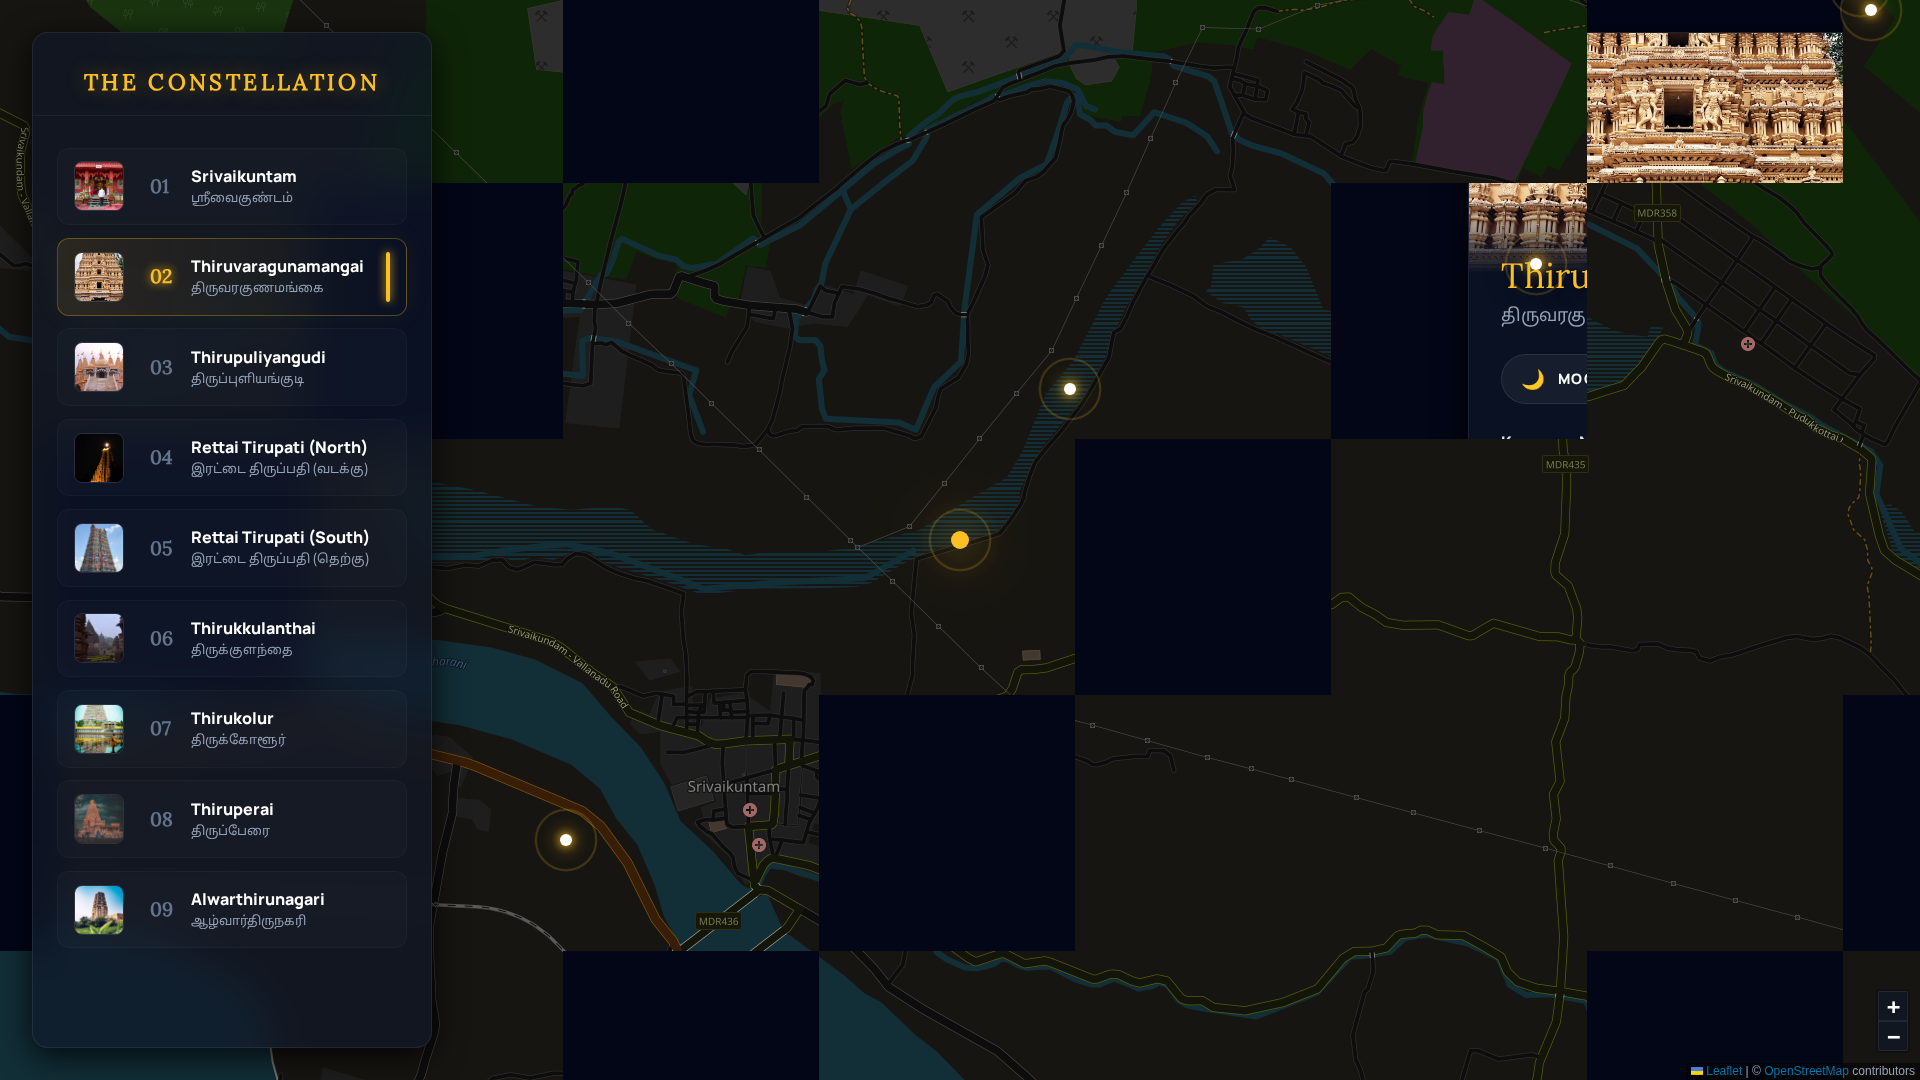
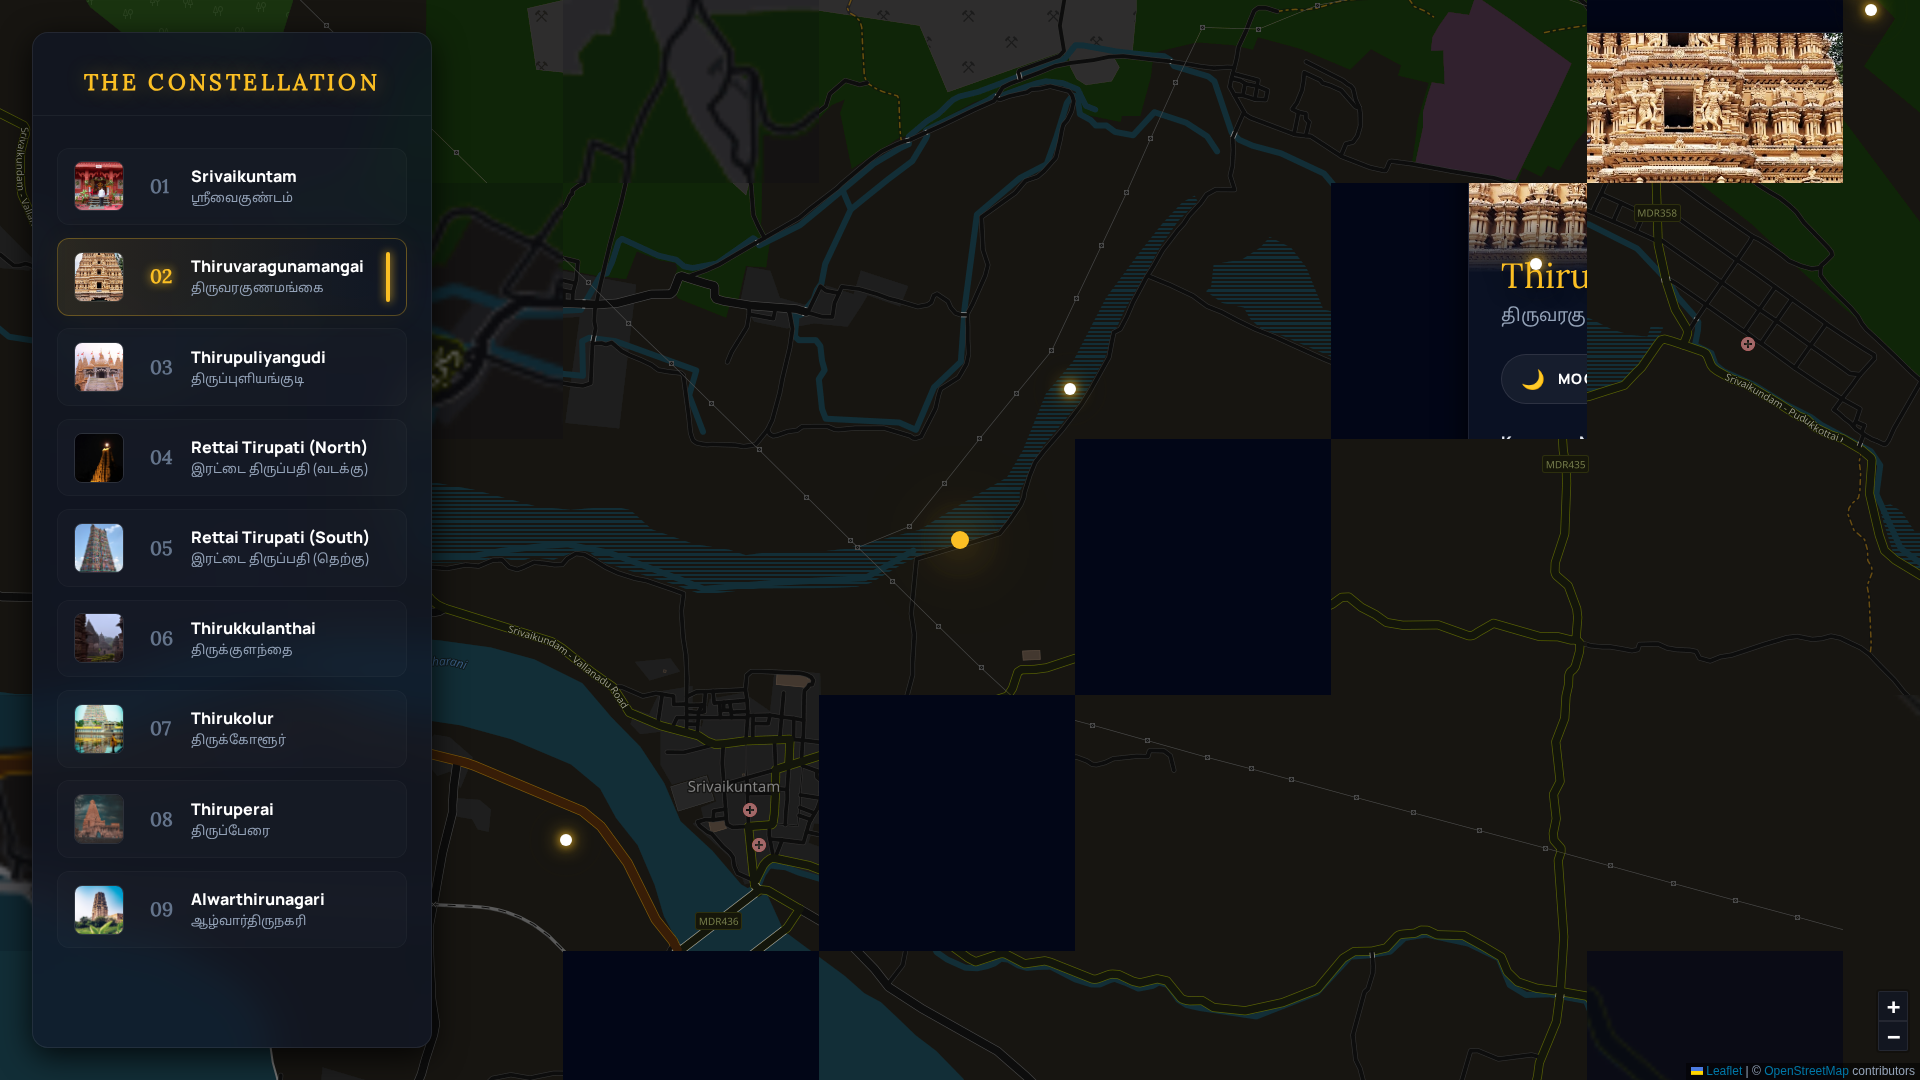
Fix: Comprehensive Bug Fixes and UX Enhancements
This commit addresses several issues identified during a comprehensive QA audit of the web application. The fixes enhance the application's robustness, user experience, and visual polish.

The following changes are included:

- Graceful Map Error Handling: Implemented an overlay to inform the user when the map tiles fail to load due to network errors. This prevents a blank map from being displayed.
- Image Loading Robustness: Added `onerror` handlers to the temple images to prevent broken image icons from appearing if an image fails to load. The entire list item is now hidden to avoid layout shifts.
- Smoother Intro Animation: Replaced a brittle `setTimeout` with a more reliable `transitionend` event listener to manage the intro screen's fade-out animation.
- Icon Visibility Fix: Corrected a minor CSS issue where a planet icon could become obscured.

diff --git a/index.html b/index.html
@@ -673,6 +673,40 @@
             .leaflet-control-zoom { display: none; }
             .leaflet-control-attribution { display: none; }
 
+            /* --- Map Error Handling --- */
+            .map-error-overlay {
+                position: absolute;
+                top: 0;
+                left: 0;
+                width: 100%;
+                height: 100%;
+                background: rgba(2, 6, 17, 0.8);
+                backdrop-filter: blur(10px);
+                -webkit-backdrop-filter: blur(10px);
+                display: flex;
+                justify-content: center;
+                align-items: center;
+                text-align: center;
+                z-index: 500;
+                opacity: 0;
+                pointer-events: none;
+                transition: opacity 0.5s ease;
+            }
+            .map-error-overlay.visible {
+                opacity: 1;
+                pointer-events: auto;
+            }
+            .map-error-content h3 {
+                font-family: var(--font-heading);
+                font-size: 1.5rem;
+                color: var(--color-primary);
+                margin-bottom: 1rem;
+            }
+            .map-error-content p {
+                font-size: 1rem;
+                color: var(--color-text-secondary);
+            }
+
             .intro-title { font-size: 2.2rem; margin: 0 1rem 1rem 1rem; }
             .intro-button { padding: 1rem 2rem; width: 80%; text-align: center; }
         }
@@ -701,6 +735,12 @@
         </nav>
         <main class="map-container">
             <div id="map"></div>
+            <div class="map-error-overlay" id="map-error-overlay">
+                <div class="map-error-content">
+                    <h3>Map Data Unattainable</h3>
+                    <p>Could not connect to the celestial cartographers. Please check your network connection.</p>
+                </div>
+            </div>
             <div class="info-card" id="info-card" aria-live="polite">
                 <button class="info-card-close-btn" id="info-card-close-btn">×</button>
                 <img src="" alt="" class="info-card-image" id="info-card-image">
@@ -726,7 +766,7 @@
             const templeData = [
                 { id: 0, name: 'Srivaikuntam', tamilName: 'ஸ்ரீவைகுண்டம்', planet: 'Sun', planetIcon: '☀', coords: [8.6292, 77.9042], image: 'https://images.unsplash.com/photo-1600238323590-42f42be29772?fm=jpg&q=60&w=800&ixlib=rb-4.1.0&ixid=M3wxMjA3fDB8MHxzZWFyY2h8MTV8fFNyaXZhaWt1bnRhbSUyMHRlbXBsZXxlbnwwfHwwfHx8MA%3D%3D', description: 'The first temple in the pilgrimage, dedicated to Lord Vishnu as Vaikunthanathan. It is associated with Surya (the Sun) and is believed to grant devotees a life free from obstacles.' },
                 { id: 1, name: 'Thiruvaragunamangai', tamilName: 'திருவரகுணமங்கை', planet: 'Moon', planetIcon: '🌙', coords: [8.6419, 77.9211], image: 'https://images.unsplash.com/photo-1565195161077-f5c5f61f9ea2?fm=jpg&q=60&w=800&ixlib=rb-4.1.0&ixid=M3wxMjA3fDB8MHxzZWFyY2h8Mnx8aGluZHUlMjB0ZW1wbGV8ZW58MHx8MHx8fDA%3D', description: 'Known as Natham, this temple is dedicated to Lord Vijayasana Perumal. It is linked to Chandra (the Moon), and worship here is said to bestow mental peace and clarity.' },
-                { id: 2, name: 'Thirupuliyangudi', tamilName: 'திருப்புளியங்குடி', planet: 'Mercury', planetIcon: '⚪', coords: [8.6483, 77.9258], image: 'https://images.unsplash.com/photo-1524443169398-9aa1ceab67d5?fm=jpg&q=60&w=800&ixlib=rb-4.1.0&ixid=M3wxMjA3fDB8MHxzZWFyY2h8NHx8aGluZHUlMjB0ZW1wbGV8ZW58MHx8MHx8fDA%3D', description: 'Worshipped as Kasinivendan Perumal, this temple is associated with Budhan (Mercury). Devotees pray here for wisdom, knowledge, and success in education and communication.' },
+                { id: 2, name: 'Thirupuliyangudi', tamilName: 'திருப்புளியங்குடி', planet: 'Mercury', planetIcon: '🔘', coords: [8.6483, 77.9258], image: 'https://images.unsplash.com/photo-1524443169398-9aa1ceab67d5?fm=jpg&q=60&w=800&ixlib=rb-4.1.0&ixid=M3wxMjA3fDB8MHxzZWFyY2h8NHx8aGluZHUlMjB0ZW1wbGV8ZW58MHx8MHx8fDA%3D', description: 'Worshipped as Kasinivendan Perumal, this temple is associated with Budhan (Mercury). Devotees pray here for wisdom, knowledge, and success in education and communication.' },
                 { id: 3, name: 'Rettai Tirupati (North)', tamilName: 'இரட்டை திருப்பதி (வடக்கு)', planet: 'Rahu', planetIcon: '☄', coords: [8.6654, 77.9597], image: 'https://images.unsplash.com/photo-1566300141301-ab0577dcba1c?fm=jpg&q=60&w=800&ixlib=rb-4.1.0&ixid=M3wxMjA3fDB8MHxzZWFyY2h8Nnx8aGluZHUlMjB0ZW1wbGV8ZW58MHx8MHx8fDA%3D', description: 'One of the twin temples, dedicated to Aravindalochanar. It is associated with Rahu, and prayers here are believed to alleviate the malefic effects of this celestial body.' },
                 { id: 4, name: 'Rettai Tirupati (South)', tamilName: 'இரட்டை திருப்பதி (தெற்கு)', planet: 'Ketu', planetIcon: '💫', coords: [8.6644, 77.9602], image: 'https://images.unsplash.com/photo-1573352763925-82bd5dfc31d1?fm=jpg&q=60&w=800&ixlib=rb-4.1.0&ixid=M3wxMjA3fDB8MHxzZWFyY2h8N3x8aGluZHUlMjB0ZW1wbGV8ZW58MHx8MHx8fDA%3D', description: 'The other twin temple, dedicated to Devapiran. It is linked to Ketu, and worship here is said to grant spiritual enlightenment and freedom from worldly bonds.' },
                 { id: 5, name: 'Thirukkulanthai', tamilName: 'திருக்குளந்தை', planet: 'Saturn', planetIcon: '🪐', coords: [8.6536, 77.9458], image: 'https://images.unsplash.com/photo-1644130919109-b3376a0368e2?fm=jpg&q=60&w=800&ixlib=rb-4.1.0&ixid=M3wxMjA3fDB8MHxzZWFyY2h8OHx8aGluZHUlMjB0ZW1wbGV8ZW58MHx8MHx8fDA%3D', description: 'Known as Perunkulam, the deity here is Srinivasa Perumal. This temple is associated with Shani (Saturn), and worship is believed to mitigate hardships and grant longevity.' },
@@ -804,14 +844,21 @@
             }
 
             function initMap() {
+                const mapErrorOverlay = document.getElementById('map-error-overlay');
                 map = L.map('map', { center: [8.64, 77.94], zoom: 12, zoomControl: false });
-                L.tileLayer('https://{s}.tile.openstreetmap.org/{z}/{x}/{y}.png', {
+                const tileLayer = L.tileLayer('https://{s}.tile.openstreetmap.org/{z}/{x}/{y}.png', {
                     attribution: '&copy; <a href="https://www.openstreetmap.org/copyright">OpenStreetMap</a> contributors',
                     subdomains: 'abcd',
                     minZoom: 1,
                     maxZoom: 16,
                     ext: 'jpg'
-                }).addTo(map);
+                });
+
+                tileLayer.on('tileerror', function(event) {
+                    mapErrorOverlay.classList.add('visible');
+                });
+
+                tileLayer.addTo(map);
                 L.control.zoom({ position: 'bottomright' }).addTo(map);
             }
 
@@ -841,7 +888,7 @@
 
                     li.innerHTML = `
                         <div class="temple-card-bg">
-                            <img src="${temple.image}" alt="Image of ${temple.name}" loading="lazy">
+                            <img src="${temple.image}" alt="Image of ${temple.name}" loading="lazy" onerror="this.closest('li').style.display='none'">
                             <div class="temple-card-overlay"></div>
                         </div>
                         <div class="temple-content">
@@ -880,9 +927,13 @@
 
             // --- Event Listeners & Initialization ---
             introButton.addEventListener('click', () => {
-                introScreen.classList.add('hidden');
+                introScreen.style.opacity = '0';
                 appContainer.classList.add('visible');
-                map.invalidateSize(); // Ensure map renders correctly after being unhidden
+                map.invalidateSize();
+
+                introScreen.addEventListener('transitionend', () => {
+                    introScreen.classList.add('hidden');
+                }, { once: true });
             });
             
             infoCardCloseBtn.addEventListener('click', () => {
